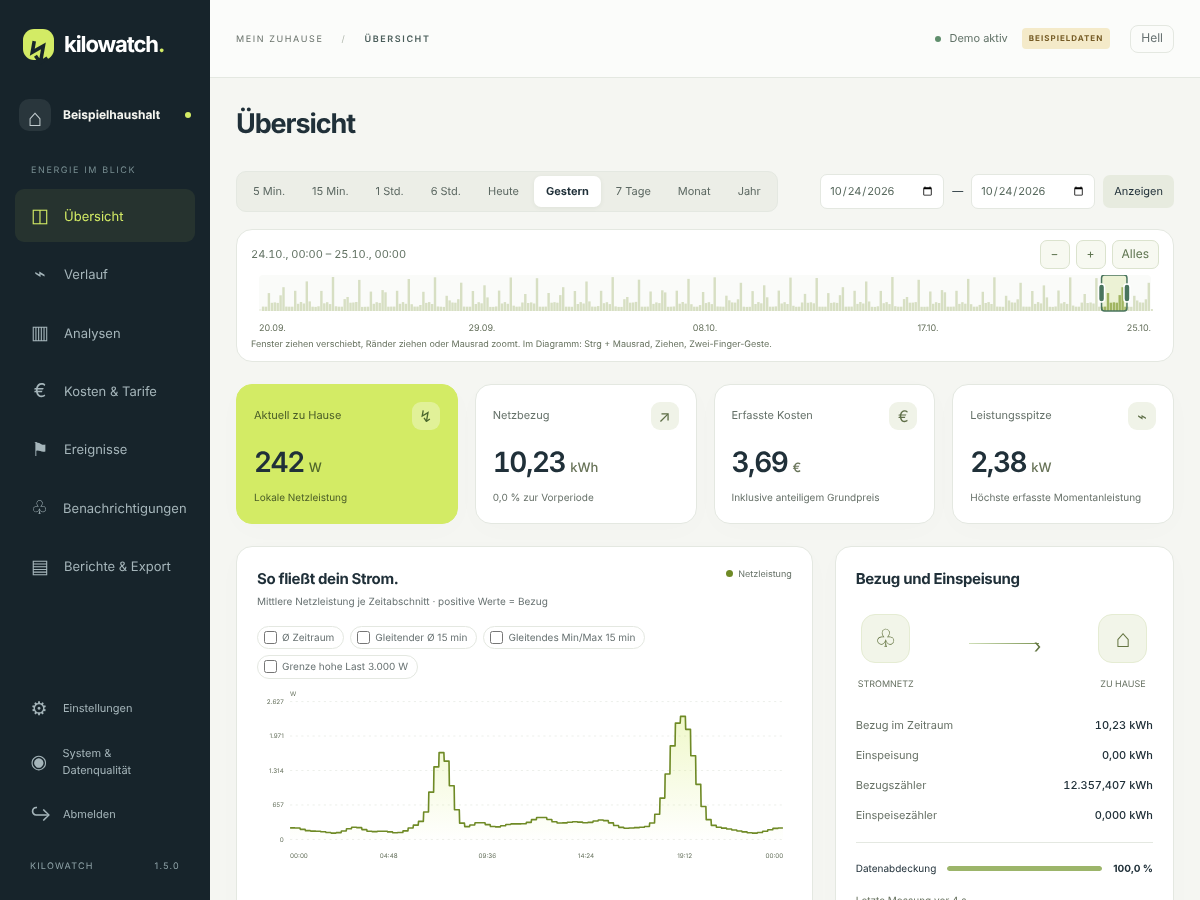
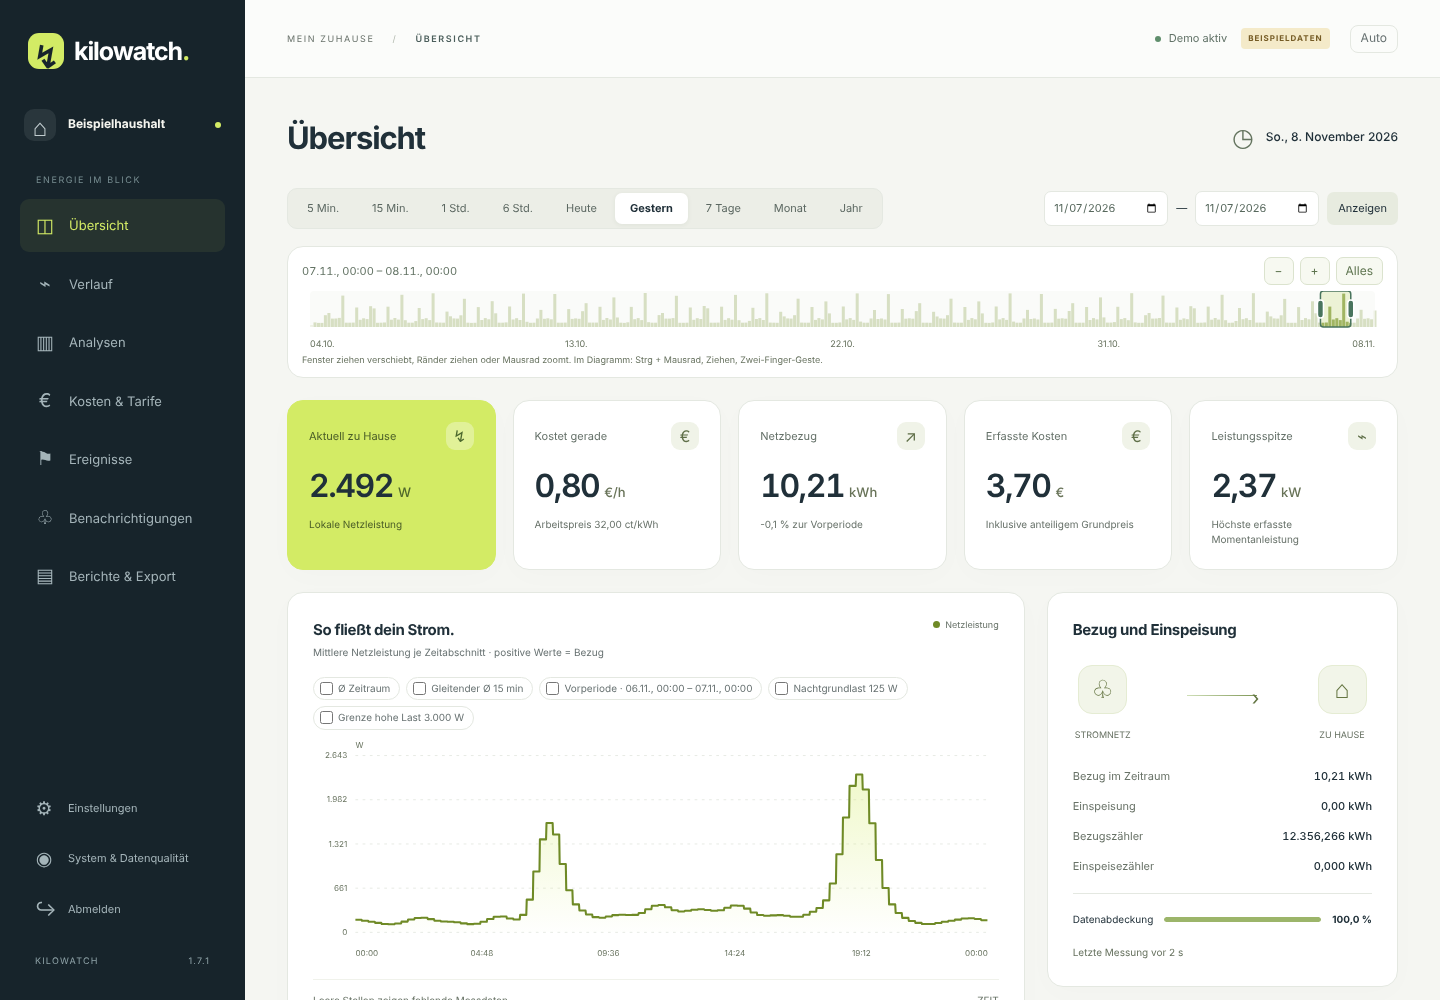
Add agent instructions with privacy rule; refresh README preview (#29)
CLAUDE.md records the privacy rule for everything that goes into the repository or to GitHub (no personal data of the owner, no details of their hardware or infrastructure, station codes S1… and test device codes T1… instead, mapping never in the repository) together with the project conventions: tests, i18n check, docs, demo mode, migrations and the release workflow.

docs/vorschau.png is retaken from demo data on 1.7.1.

Claude-Session: https://claude.ai/code/session_01Gdv6UxBxuMBkUzBi2Mz76j

diff --git a/CLAUDE.md b/CLAUDE.md
@@ -1,0 +1,34 @@
+# Kilowatch – Hinweise für Agenten-Sessions
+
+Kilowatch liest den Stromzähler über die Tibber-Bridge lokal aus und zeigt Verbrauch, Kosten und Auswertungen. FastAPI und SQLite im Backend, eine Oberfläche aus reinem JavaScript ohne Build-Schritt in `app/static/`, Docker-Images für NAS-Systeme.
+
+## Datenschutz und Pseudonyme
+
+Gilt für alles, was ins Repository oder zu GitHub geht: Code, Doku, Konzepte, Berichte, Commit-Messages, Branch-Namen, PR- und Issue-Texte, Kommentare, Screenshots, Logs.
+
+- **Keine personenbezogenen Daten des Inhabers:** kein Klarname, keine Mailadresse, kein Wohnort, keine Konto- oder Gerätenamen. Stattdessen die Rolle „Inhaber“ (bzw. „PO“).
+- **Keine Angaben zu Hardware und Infrastruktur des Inhabers:** keine Rechner- oder Hostnamen, CPU-/GPU-Modelle, RAM/VRAM, Betriebssystem-Builds, IP-Adressen, Netzwerk-, Router- oder VM-Details, Seriennummern und keine lokalen Pfade mit Benutzernamen (`C:\Users\…`, `/home/…`).
+- **Stattdessen Codes:** Stationen S1, S2, …; Testgeräte T1, T2, …. Neue Stationscodes vergibt der Inhaber. Wo eine Leistungsklasse technisch nötig ist, nur abstrakt (z. B. „T1: WebGPU ja, dedizierte GPU, Mittelklasse“). Interne Abläufe ebenfalls über Codes (Auftragsnummern, Stationscodes) statt Personen- oder Gerätebezug.
+- **Die Zuordnung Code ↔ Klarname steht nie im Repository**, nur im Chat oder in einer lokalen, nicht versionierten Notiz.
+- **Erlaubt sind allgemeine Beispiele**, die niemanden beschreiben: `192.168.1.0/24`, `bridge.example.lan`, Platzhalter wie `<Host>`, Synology als unterstützte Plattform. Screenshots nur aus dem Demo-Modus mit Beispieldaten.
+- **Bestand:** Funde über den üblichen Branch-/PR-Weg im aktuellen Stand bereinigen. Git-History umschreiben oder Force-Push nur nach ausdrücklicher Freigabe des Inhabers, sonst Fundliste mit Empfehlung an den Inhaber.
+- **Git-Identität:** Steht eine echte Mailadresse als Commit-Autor, nicht selbst ändern, sondern dem Inhaber melden.
+
+## Entwicklung
+
+```sh
+python -m pytest                                    # Python 3.13, inklusive i18n-Prüfung
+npm ci --ignore-scripts && npm test                 # Oberfläche mit jsdom, Node 24
+for f in app/static/*.js; do node --check "$f"; done
+```
+
+- **Texte:** Oberflächentexte stehen deutsch im Code (`t('…')`). Übersetzungen liegen in `app/static/i18n/{en,nb,sv,nl}.json` mit dem deutschen Text als Schlüssel. `python tools/i18n_extract.py --missing` muss für jede Sprache 0 fehlende und 0 überzählige Schlüssel melden; `tests/test_i18n.py` prüft das.
+- **Doku:** deutsch unter `docs/`, bei Verhaltensänderungen mitpflegen (API, Bedienung, Datenmodell, Benachrichtigungen, Prüfprotokoll).
+- **Demo-Modus** zum Ausprobieren und für Screenshots: `DATA_DIR=<leerer Ordner> DEMO_MODE=true python -m uvicorn app.main:factory --factory --host 127.0.0.1 --port 8088`. Den Setup-Code zeigt `<DATA_DIR>/SETUP-CODE.txt`.
+- **Datenbank:** Schemaänderungen kommen als neuer Eintrag in `MIGRATIONS` in `app/storage.py`; `SCHEMA_VERSION` ergibt sich daraus. Vor jeder Migration entsteht automatisch eine Sicherung.
+
+## Release
+
+1. `__version__` in `app/__init__.py` erhöhen und per PR (Squash-Merge) auf `main` bringen.
+2. Den Workflow `.github/workflows/nas-image.yml` auf `main` per `workflow_dispatch` mit `release: true` starten (alternativ Tag `vX.Y.Z` pushen). Er testet, baut und signiert die Images (`X.Y.Z`, `X.Y`, `X`, `latest`) für amd64 und arm64 und legt Tag und GitHub-Release mit den Installationsdateien an.
+3. Nutzer aktualisieren mit `sudo sh <Projektordner>/tools/update.sh`.
